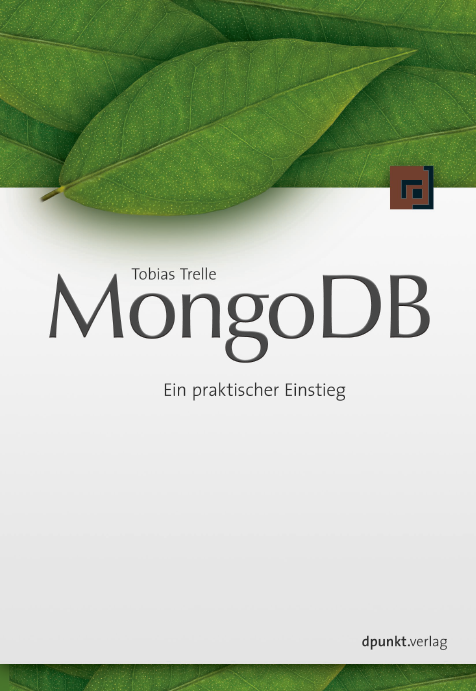
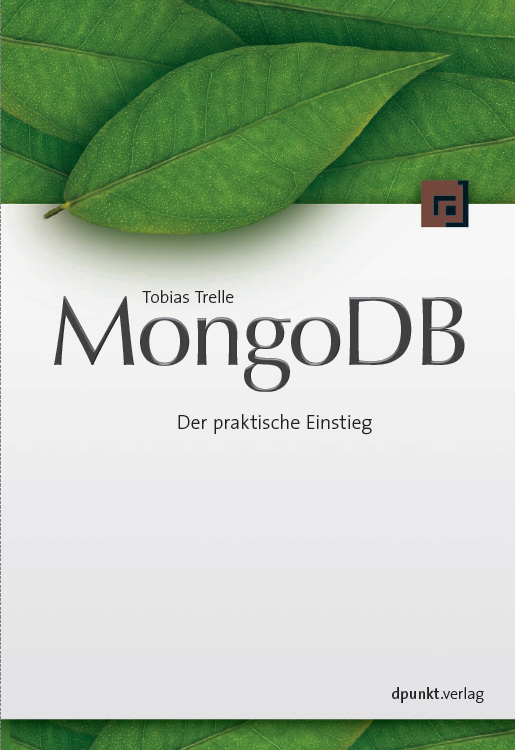
Buchtitel aktualisiert

diff --git a/README.md b/README.md
@@ -1,10 +1,10 @@
-# MongoDB - Ein praktischer Einstieg #
+# MongoDB - Der praktische Einstieg #
 In diesem Repository findet Sie den Sourcecode in [Java](java) und [Ruby](ruby	) sowie [Testdaten](data) zu den Programmierbeispielen aus meinen Buch
 ....
 
 ![MongoDB - Ein praktischer Einstieg](mongodb.png)
 
-**MongoDB - Ein praktischer Einstieg**<br/>
+**MongoDB - Der praktische Einstieg**<br/>
 Tobias Trelle<br/>
 [dpunkt.verlag](http://www.dpunkt.de/buecher/4194/mongodb.html), 2014<br/>
 ISBN: 3864901537 / 978-3864901539
@@ -14,7 +14,7 @@ Viel Spass beim Ausprobieren!
 ## Über den Autor ##
 Dipl.-Math. Tobias Trelle ist Senior IT Consultant bei der codecentric AG, Solingen. Er ist seit knapp 20 Jahren im IT-Business unterwegs und interessiert sich für Software-Architekturen und skalierbare Lösungen. 
 
-Tobias hält [Vorträge zu den Themen NoSQL und MongoDB](http://de.slideshare.net/tobiastrelle) auf [Konferenzen und Usergruppen](http://lanyrd.com/profile/tobiastrelle/), [bloggt](https://blog.codecentric.de/en/author/tobias-trelle/) und verfasst Artikel in Fachzeitschriften. Darüber hinaus organisiert die [Düsseldorfer MongoDB Usergruppe](https://www.xing.com/net/mongodb-dus/).
+Tobias hält [Vorträge](http://de.slideshare.net/tobiastrelle) auf [Konferenzen und Usergruppen](http://lanyrd.com/profile/tobiastrelle/), [bloggt](https://blog.codecentric.de/en/author/tobias-trelle/) und verfasst Artikel in Fachzeitschriften. Darüber hinaus organisiert die [Düsseldorfer MongoDB Usergruppe](https://www.xing.com/net/mongodb-dus/).
 
 
 
